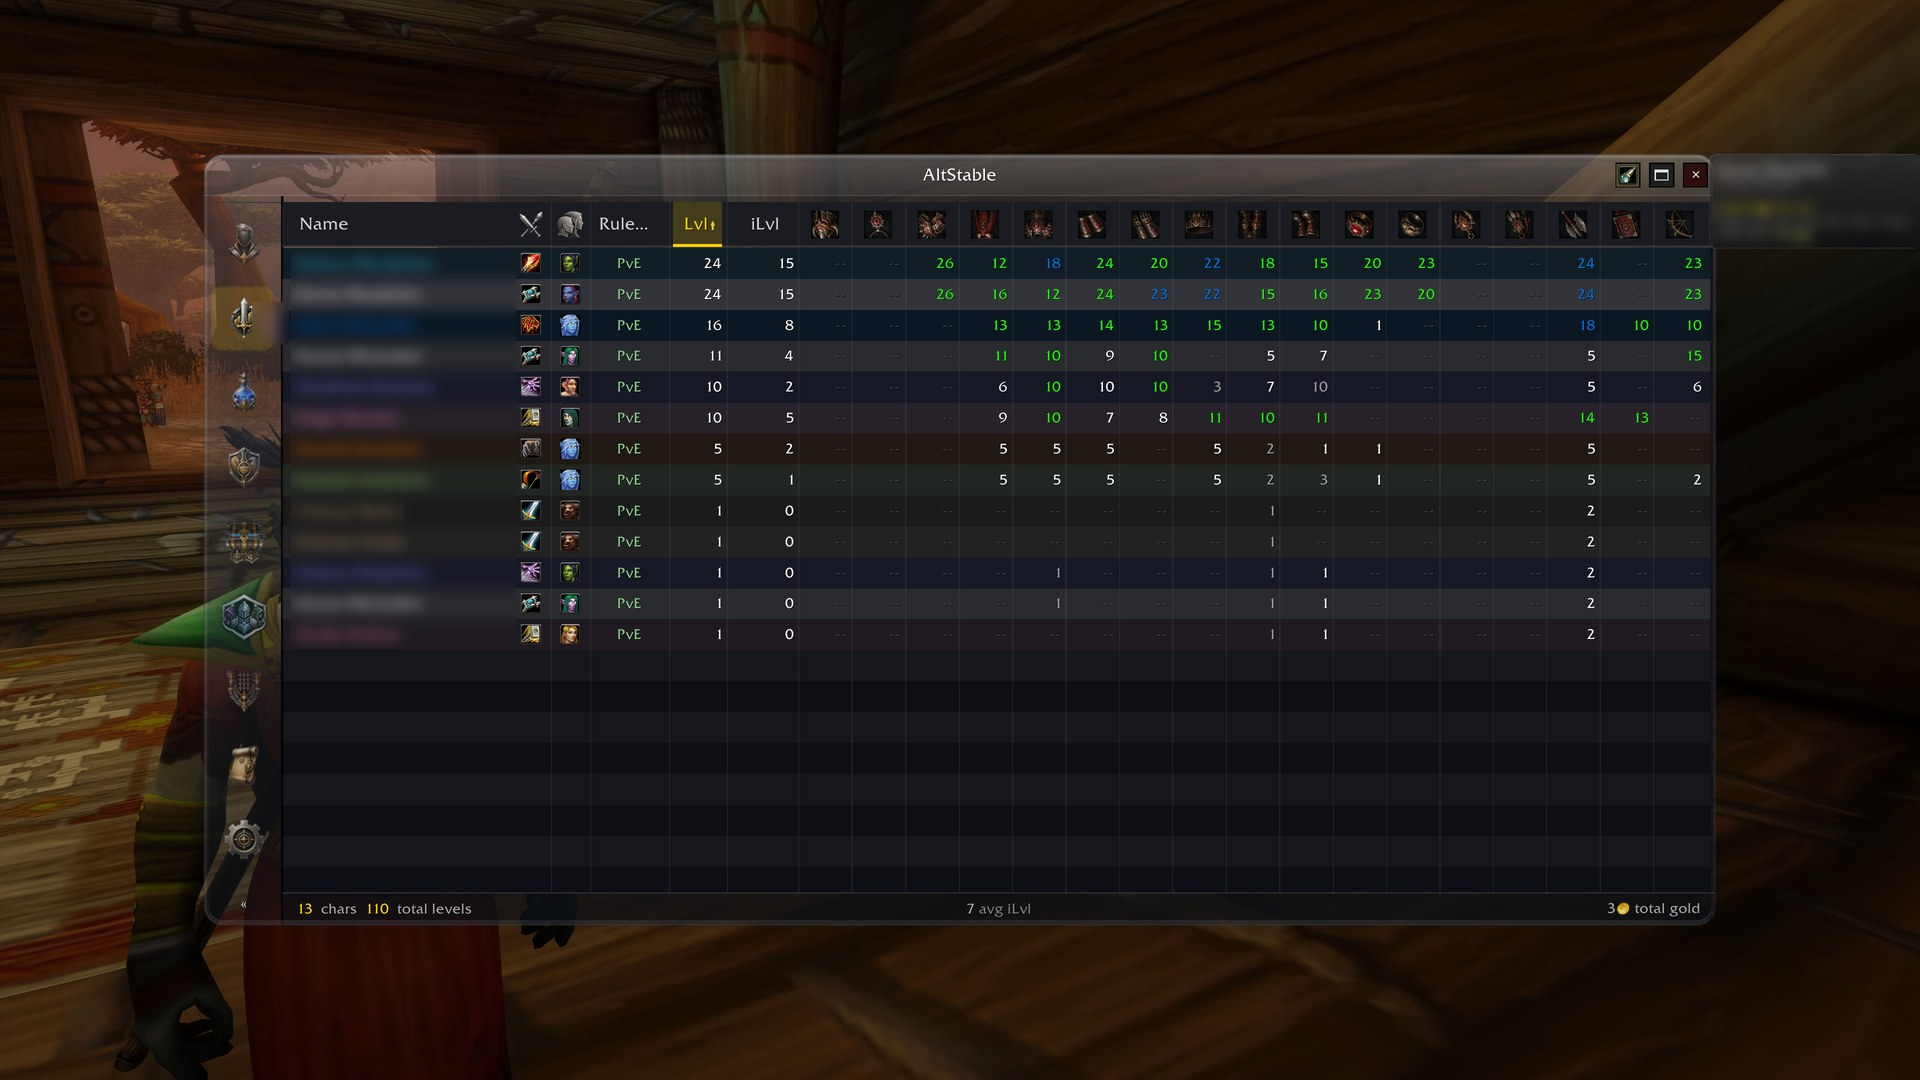
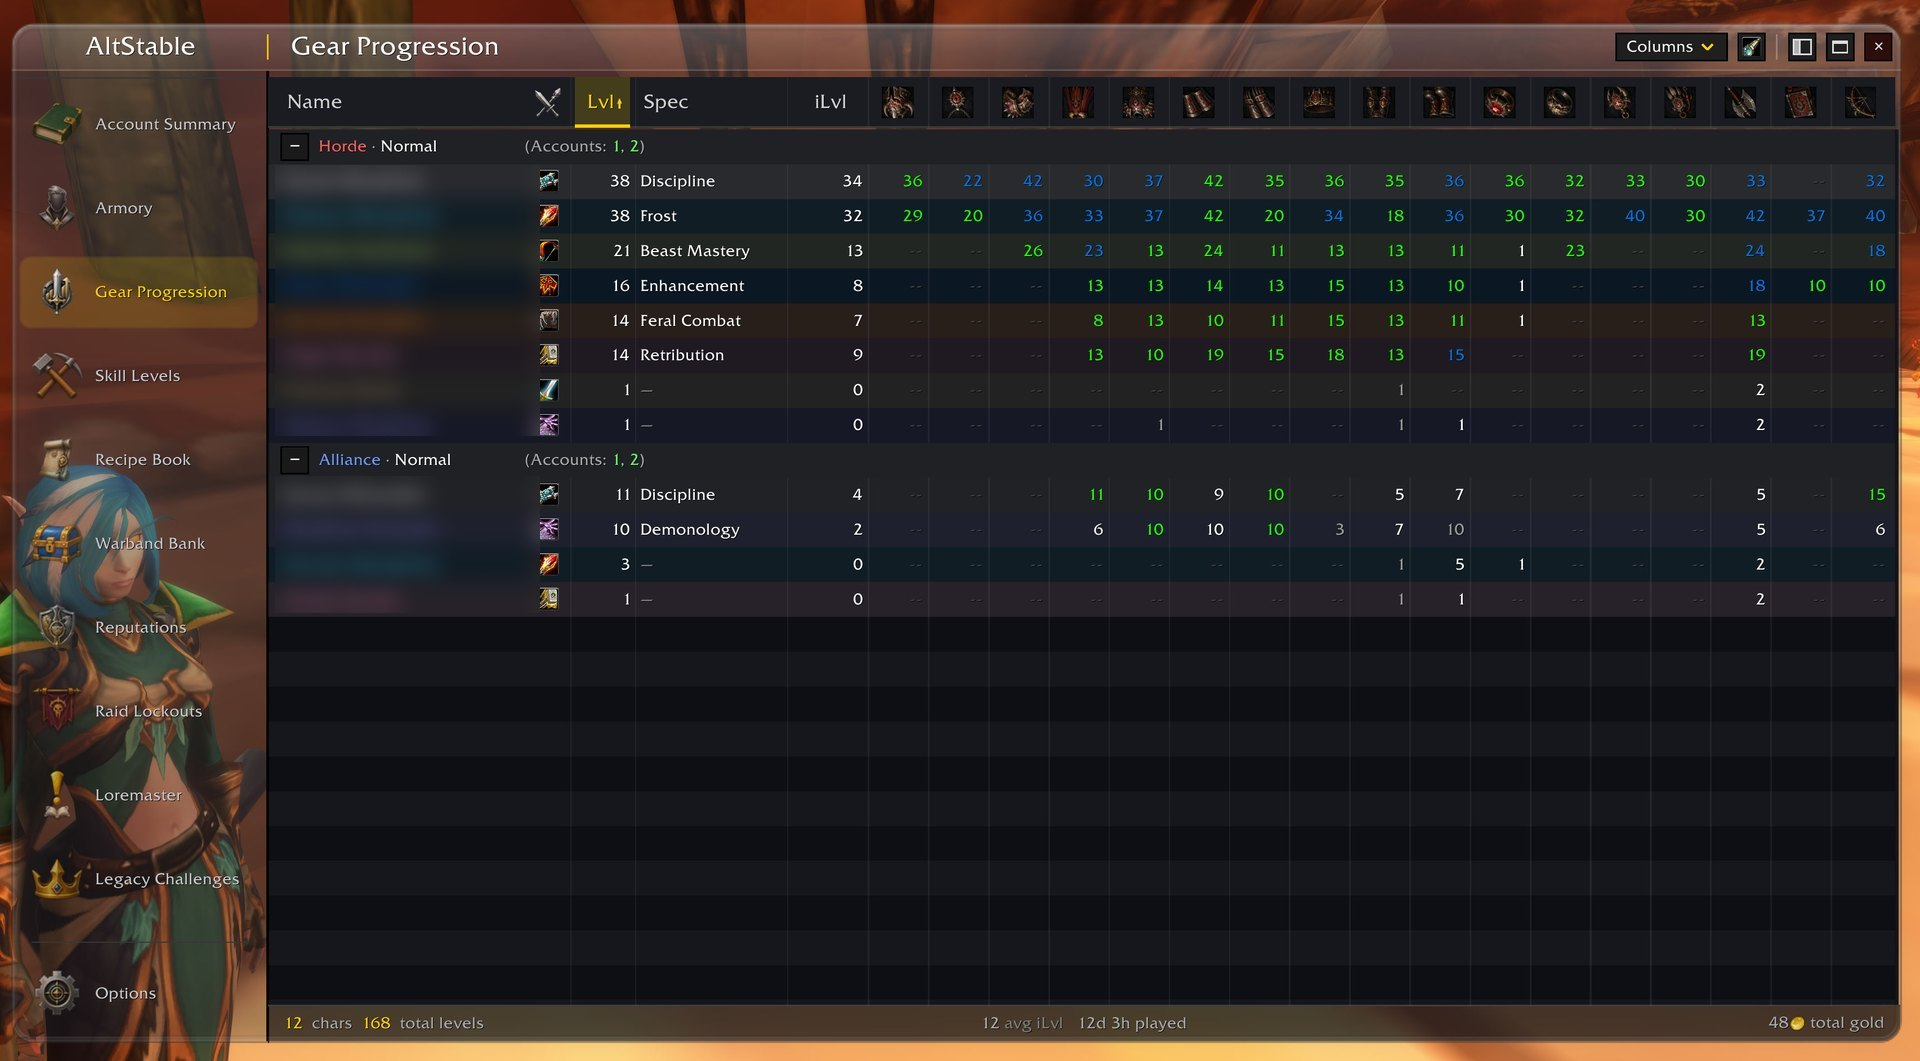
README: new screenshots, and the tabs by their new names (#531)
* README: new screenshots, and the tabs by their new names (#528)

The owner's screenshots of the new title bar and sidebar, cropped to the
window: nine images replaced (sheet, gear, reputations, Recipe Book,
Warband Bank combined, Legacy Challenges, Loremaster, the Armory camp and
cards) and two added (skill levels, Raid Lockouts). The tabs are named as
#529 names them, and the alt texts describe the new pictures.

* README: the character pane retaken, with its talents and Legacy talents

* README screenshots: names blurred, the Loremaster and Raid Lockouts captions

The README promises blurred names (Codex review of #531): every character
and guild name is blurred in the ten images that show them. The Loremaster
caption describes the zone shown, and the Raid Lockouts one an empty view.

---------

diff --git a/README.md b/README.md
@@ -6,11 +6,11 @@ Looking for an Altoholic alternative for WoW Forever? AltStable brings your char
 inventory, professions and progression together in one window, so you can check what your alts
 have without logging into each of them.
 
-Everything below works with the addon on its own. Character portraits for the Roster are an
+Everything below works with the addon on its own. Character portraits for the Armory are an
 optional extra that needs the free [AltStable Companion](#optional-character-portraits-and-the-companion)
 app.
 
-![The sheet: one row per character with class, race, ruleset, level, item level, guild, rested XP, gold and when each was last played, with totals along the bottom](https://raw.githubusercontent.com/Spotnick2/AltStable/main/docs/images/sheet.jpg)
+![The Account Summary: one row per character with its class, level, spec, item level, rested XP, gold, bag space, hearthstone and when it was last online, grouped by faction and ruleset, with the totals along the bottom and the tabs down the side](https://raw.githubusercontent.com/Spotnick2/AltStable/main/docs/images/sheet.jpg)
 
 *The sheet: every character at a glance, with total levels, average item level and total gold
 along the bottom. (Names blurred in all screenshots.)*
@@ -23,21 +23,21 @@ doesn't move it anywhere, and whether you can pass it on still depends on the ga
 
 ### Which alt has my materials?
 
-The **Warband** tab lays out every item in all your characters' bags, banks and mailboxes like a
+The **Warband Bank** tab lays out every item in all your characters' bags, banks and mailboxes like a
 warband bank, with tabs you can arrange yourself. Show one tab at a time, or three side by side.
 Hover an item to see who holds how many, split between bags, bank and mail. You can show everyone on your
 current ruleset or a chosen one, of your faction, the other or both, or only the character you are on.
 Both filters are kept between sessions, and a reset button puts them back.
 
-![The Warband tab's Combined view: Trade Goods, Consumables and Equipment side by side, gathered from every character's bags and banks, with the tooltip-count option, the ruleset and faction menus, the reset button and the tab list down the side](https://raw.githubusercontent.com/Spotnick2/AltStable/main/docs/images/warband-combined.jpg)
+![The Warband Bank tab's Combined view: Trade Goods, Consumables and Equipment side by side, gathered from every character's bags and banks, with the tooltip-count option, the ruleset and faction menus and the tab list down the side](https://raw.githubusercontent.com/Spotnick2/AltStable/main/docs/images/warband-combined.jpg)
 
-*The Warband tab, Combined view: everyone's trade goods, consumables and equipment in one place.
+*The Warband Bank tab, Combined view: everyone's trade goods, consumables and equipment in one place.
 Hover any item to see who holds it.*
 
 Item tooltips everywhere in the game (your bags, merchants, links) show the same counts: the
 total, then who holds how many. It's on unless Bagnon, Baganator or Altoholic is installed, since
 they show their own counts. **Show who has this item and how many** in Options (**Show character
-counts in tooltips** in the Warband tab) turns it on or off either way.
+counts in tooltips** in the Warband Bank tab) turns it on or off either way.
 
 **Options, General, Item tooltips** decides how they look, with a live preview beside it:
 - **Tooltip layout:** *One list*, everyone together. *Separate groups*, the default: the characters
@@ -60,15 +60,15 @@ rather than in these counts.
 
 ### Who knows this recipe?
 
-The **Professions** tab shows which character knows which recipe, the skill it needs and where
+The **Recipe Book** tab shows which character knows which recipe, the skill it needs and where
 it comes from (trainer, vendor, quest or drop). Filter for the recipes you know, the ones you're
 missing, or the ones nobody has yet; the tab opens on the filter you last picked. Recipes the
 profession quartermasters sell for Merchant's Favor show their price, and the **Favor** filter
 lists them: with an alt picked and **Missing**, it's what that alt could buy.
 
-![The Professions tab for Cooking: each recipe with its skill level, its source and which characters know it, a progress card per cook, and a recipe tooltip listing its reagents](https://raw.githubusercontent.com/Spotnick2/AltStable/main/docs/images/professions.jpg)
+![The Recipe Book tab for Cooking: each recipe with its skill level, its source and which characters know it, and a progress card per cook](https://raw.githubusercontent.com/Spotnick2/AltStable/main/docs/images/professions.jpg)
 
-*The Professions tab: who knows each recipe, and where to get the ones nobody has.*
+*The Recipe Book tab: who knows each recipe, and where to get the ones nobody has.*
 
 Recipe items in the game (at a vendor, in the auction house) can also show who already knows
 them, who has the skill to learn them and whose skill is too low. Crafted items show who can make
@@ -79,13 +79,13 @@ the skill thresholds, where the recipe comes from, who knows it and its reagents
 
 ### Which recipes do my alts still want?
 
-Star a recipe for an alt in the Professions tab, and the **Wishlist** filter lists what it wants.
+Star a recipe for an alt in the Recipe Book tab, and the **Wishlist** filter lists what it wants.
 The recipe item's tooltip then says who wants it, until that alt learns it. Stars sync to your
 other accounts, and each alt's stars are set on the account it's played on.
 
 ### Do my characters already have the reagents?
 
-Hover a recipe in the Professions tab to see its reagents and how many your alts hold in their
+Hover a recipe in the Recipe Book tab to see its reagents and how many your alts hold in their
 bags and banks. For each alt who knows it, you see whether it has them or what it's short of. The
 **Craftable** filter lists the recipes an alt knows and has the reagents for. It counts the alt's
 own reagents and every other alt's, except an alt known to be of the other faction or on another
@@ -100,13 +100,17 @@ tells you when one is ready.
 
 ### Which characters are saved to a raid, and when do they reset?
 
-The **Raids** tab shows who is saved to which raid, how many bosses each has killed, and when
+The **Raid Lockouts** tab shows who is saved to which raid, how many bosses each has killed, and when
 each lockout resets. Hover a cell for the boss-by-boss detail. It lists your level-60
 characters, plus anyone else who holds a lockout.
 
+![The Raid Lockouts tab: Barrow Deeps, Hyjal Summit and Onyxia's Lair, with the active saves and the characters tracked along the bottom](https://raw.githubusercontent.com/Spotnick2/AltStable/main/docs/images/raids.jpg)
+
+*The Raid Lockouts tab before any character has a raid to show: no level-60 character and no lockout yet.*
+
 ### How far along are my Legacy Challenges?
 
-The **Legacy** tab shows Forever's Legacy Challenges for your whole Battle.net account: their
+The **Legacy Challenges** tab shows Forever's Legacy Challenges for your whole Battle.net account: their
 progress is shared by every character on it, so any of them shows the same.
 
 - **Classes** and **Tradeskills**: each class's level 25, 45 and 60 challenges with your highest
@@ -118,9 +122,9 @@ progress is shared by every character on it, so any of them shows the same.
 - **Legacy Points** along the bottom: your total, a bar coloured by reward, and the next reward
   with the points still to go.
 
-![The Legacy tab: a Classes grid and a Tradeskills grid with each tier's progress, the Dungeons and Raids challenges with their parts, and the Legacy Points bar along the bottom](https://raw.githubusercontent.com/Spotnick2/AltStable/main/docs/images/legacy.jpg)
+![The Legacy Challenges tab: a Classes grid and a Tradeskills grid with each tier's progress, the Dungeons and Raids challenges with their parts, and the Legacy Points bar along the bottom](https://raw.githubusercontent.com/Spotnick2/AltStable/main/docs/images/legacy.jpg)
 
-*The Legacy tab: the challenges, the alt closest to each one, and the points along the bottom.*
+*The Legacy Challenges tab: the challenges, the alt closest to each one, and the points along the bottom.*
 
 Star the challenges you're after (click a grid cell, or the star on a row), and the **Bucket
 List** view lists them with the character closest to each, a progress bar and what's left ("Gain
@@ -155,9 +159,9 @@ can ever do there, for its faction, race and class, at any level.
   counted under another zone names it ("counted under Blackrock Spire"). A raid with no quest counted for a character shows its steps
   done, dimmed, such as "0/15". The steps stay counted once, under their own zones.
 
-![The Loremaster tab: a map zoomed into the Wetlands with Excavation Site's entrance pinned, a card with 5 of 5 quests done, and a grid of dungeons with each character's progress](https://raw.githubusercontent.com/Spotnick2/AltStable/main/docs/images/loremaster.jpg)
+![The Loremaster tab: the map of Orgrimmar, a card with 11 of 62 quests done, and the zones of Kalimdor with each character's progress](https://raw.githubusercontent.com/Spotnick2/AltStable/main/docs/images/loremaster.jpg)
 
-*The Loremaster tab: a dungeon's entrance on the map, its card, and every character's progress.*
+*The Loremaster tab: a zone on the map, its card for one character, and every character's progress by zone.*
 
 Zone, dungeon, raid, battleground and profession quests count, breadcrumbs included. Repeatable
 quests, holiday quests and quests not in the game don't. A quest a character can no longer take
@@ -193,6 +197,10 @@ total, and the per-character list on hover. Left-click opens AltStable, right-cl
 ![The sheet's gear view: the item level of every equipped slot for each character, coloured by quality](https://raw.githubusercontent.com/Spotnick2/AltStable/main/docs/images/sheet-gear.jpg)
 
 *Gear: the item level in every slot, for every character.*
+
+![The sheet's skill view: each character's level in every profession and secondary skill](https://raw.githubusercontent.com/Spotnick2/AltStable/main/docs/images/sheet-skills.jpg)
+
+*Skill levels: every profession and secondary skill, for every character.*
 
 ![The sheet's reputation view: each character's standing with Vanilla and Forever factions](https://raw.githubusercontent.com/Spotnick2/AltStable/main/docs/images/sheet-reputations.jpg)
 
@@ -234,9 +242,9 @@ and it doesn't try to match every Altoholic feature.
 3. **Log in on each character once.** AltStable can only read the character you are playing. It
    records it at login and keeps it up to date while you play. A character you haven't logged
    into since installing isn't there yet.
-4. **Open your bank and a mailbox once** on each character for the Warband tab. The game only
+4. **Open your bank and a mailbox once** on each character for the Warband Bank tab. The game only
    lets an addon read them while they're open. Bags are read without asking.
-5. **Open each profession window once** for the Professions tab to know its recipes. Until then,
+5. **Open each profession window once** for the Recipe Book tab to know its recipes. Until then,
    the profession shows as "not scanned".
 
 Raid lockouts come from the game's saved-instance list, which is read at login. Where something
@@ -262,29 +270,29 @@ installed and need to be **online at the same time**.
 
 ## Optional: character portraits and the Companion
 
-The **Roster** tab shows your characters as character cards, or standing together around a
+The **Armory** tab shows your characters as character cards, or standing together around a
 campfire in **camps** of four (up to 50 camps), each with its own backdrop. Click a character for its paper
 doll, stats and talents. **View** opens its talents in the game's own talent frame, read-only,
 as they were when it was last played.
 
-![The Roster's character cards: one full-length portrait per character with its level, and a plain card with the class icon for characters without a portrait yet](https://raw.githubusercontent.com/Spotnick2/AltStable/main/docs/images/roster-cards.jpg)
+![The Armory's character cards: one full-length portrait per character with its level, and a plain card with the class icon for characters without a portrait yet](https://raw.githubusercontent.com/Spotnick2/AltStable/main/docs/images/roster-cards.jpg)
 
 *Character cards. A character without a portrait gets a plain card with its class icon.*
 
-![A character opened from the Roster: its portrait with the equipped gear around it, and its gold, rested XP, health, mana, attributes and combat stats](https://raw.githubusercontent.com/Spotnick2/AltStable/main/docs/images/roster-character.jpg)
+![A character opened from the Armory: its portrait with the equipped gear around it, and its gold, rested XP, talents, Legacy talents, health, mana, attributes and combat stats](https://raw.githubusercontent.com/Spotnick2/AltStable/main/docs/images/roster-character.jpg)
 
 *Click a character for its paper doll and stats. The Audit tab beside Char lists its enchants.*
 
-![A camp in the Roster: four characters around a campfire in Dalaran, from portraits made by AltStable Companion, with the camp list beside it](https://raw.githubusercontent.com/Spotnick2/AltStable/main/docs/images/roster.jpg)
+![A camp in the Armory: four characters around a campfire at Mount Hyjal, from portraits made by AltStable Companion, with the camp list beside it](https://raw.githubusercontent.com/Spotnick2/AltStable/main/docs/images/roster.jpg)
 
-*Roster portraits from your own captures, made by the free AltStable Companion.*
+*Armory portraits from your own captures, made by the free AltStable Companion.*
 
 There are three separate pieces here, and only the first is required:
 
 | Piece | What it is | Do you need it? |
 |---|---|---|
-| **AltStable** (this addon) | Tracks and compares your characters in the game, including the Roster | Yes. It's complete on its own |
-| **[AltStable Companion](https://github.com/Spotnick2/AltStableCompanion/releases)** | A free Windows app that turns your portrait captures into the Roster's character portraits | Only for portraits in the Roster |
+| **AltStable** (this addon) | Tracks and compares your characters in the game, including the Armory | Yes. It's complete on its own |
+| **[AltStable Companion](https://github.com/Spotnick2/AltStableCompanion/releases)** | A free Windows app that turns your portrait captures into the Armory's character portraits | Only for portraits in the Armory |
 | **Enhanced portraits** | A setting in the Companion that asks the Codex CLI on your PC for a nicer picture of each portrait | No. It's off by default and uses your ChatGPT account's usage |
 
 The Companion makes ordinary portraits without any AI. Enhanced portraits are the only part that
@@ -296,7 +304,7 @@ uses one.
 
 ### Your first portrait
 
-Clicking the Roster's hint in the game shows the Companion's link.
+Clicking the Armory's hint in the game shows the Companion's link.
 
 1. Install and start **AltStable Companion** on your PC, and press **Start watching**.
 2. In the game, on the character you want, type `/alts portrait` (or press the spyglass
@@ -342,7 +350,7 @@ The Companion has its own **Check for updates** under **Help → About**.
 | `/alts` | Open the window |
 | `/alts help` | List the commands |
 | `/alts status` | Versions and counts, as one line to copy into a bug report |
-| `/alts portrait` | Capture this character for the Roster |
+| `/alts portrait` | Capture this character for the Armory |
 | `/alts sync` [name] | Sync now, with everyone or one character |
 | `/alts whitelist` [remove] [name] | Who you sync with |
 | `/alts auth`, `/alts allow` / `deny` &lt;name&gt; | Who may ask for your data |
